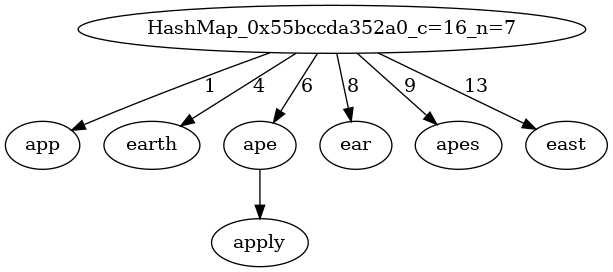
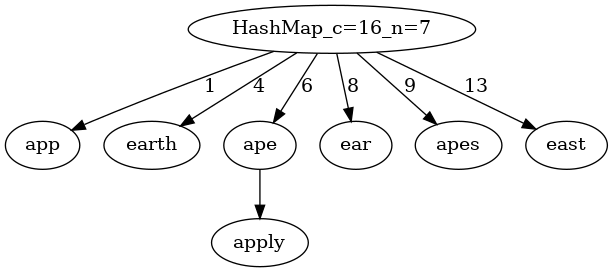
Update Strings/HashMap

Changed region(s): [[0.124, 0.0, 0.9608, 0.2059], [0.5579, 0.1471, 0.8059, 0.2059], [0.6819, 0.4118, 0.7129, 0.4412]]

diff --git a/Strings/HashMap/src/HashMap.c b/Strings/HashMap/src/HashMap.c
@@ -219,9 +219,10 @@ void GenOneImage(struct HashMap* pMap, char *graphName, char *fileName, long seq
 
 /*
     digraph OurHashMap {
-    "HashMap_0x556d03a862a0_c=4_n=2"
-    "HashMap_0x556d03a862a0_c=4_n=2" -> {"ear"} [label="0"]
-    "HashMap_0x556d03a862a0_c=4_n=2" -> {"apply"} [label="2"]
+    "HashMap_c=8_n=3"
+    "HashMap_c=8_n=3" -> {"ear"} [label="0"]
+    "HashMap_c=8_n=3" -> {"apply"} [label="6"]
+    "apply" -> {"ape"}
     }
  */
 void HashMap2Dot(struct HashMap* pMap, char *filePath, char *graphName) {
@@ -236,15 +237,13 @@ void HashMap2Dot(struct HashMap* pMap, char *filePath, char *graphName) {
         fprintf(dotFile, "digraph %s {\n", graphName);
         // Node for the whole HashMap
         fprintf(dotFile, 
-                "\"HashMap_%p_c=%d_n=%d\"\n", 
-                pMap,
+                "\"HashMap_c=%d_n=%d\"\n",
                 pMap->capacity,
                 pMap->n);
         for (int i = 0; i < pMap->capacity; i++) {
             if (pMap->buckets[i]) {
                 fprintf(dotFile, 
-                        "\"HashMap_%p_c=%d_n=%d\" %s {\"%s\"} [label=\"%d\"]\n",
-                        pMap,
+                        "\"HashMap_c=%d_n=%d\" %s {\"%s\"} [label=\"%d\"]\n",
                         pMap->capacity,
                         pMap->n,
                         edgeConnectorStr,

diff --git a/Strings/HashMap/README.md b/Strings/HashMap/README.md
@@ -53,17 +53,27 @@ static unsigned int GetHash(const char *key) {
     }
     return hash;
 }
+
+const char *HashMapGet(struct HashMap *pMap, const char* key) {
+    unsigned int index = GetHash(key) % pMap->capacity;
+
+    struct BucketEntry *current = pMap->buckets[index];
+
+    ...
+}
 ```
 
 ### HashMap
 
 A HashMap is a fundamental data structure in programming that provides a way to store key-value pairs.
 
-Internally, a HashMap uses an array of buckets to store key-value pairs. 
+BTW, key-value pairs can also be stored in a [SortedMap](https://en.cppreference.com/w/cpp/container/map), which uses a self-balancing binary search tree to keep keys in sorted order.
+
+Internally, a HashMap ([unordered](https://en.cppreference.com/w/cpp/container/unordered_map)) uses an array of buckets to store key-value pairs.
 
 Each bucket is a linked list of elements. 
 
-When multiple elements hash to the same bucket (collision), they are stored as nodes in this linked list.
+When multiple elements hash to the same bucket (**collision**), they are stored as nodes in this linked list.
 
 The key’s hash value determines the bucket location for storage.
 
@@ -634,11 +644,13 @@ void GenOneImage(struct HashMap* pMap, char *graphName, char *fileName, long seq
     system(command);
 }
 
+
 /*
     digraph OurHashMap {
-    "HashMap_0x556d03a862a0_c=4_n=2"
-    "HashMap_0x556d03a862a0_c=4_n=2" -> {"ear"} [label="0"]
-    "HashMap_0x556d03a862a0_c=4_n=2" -> {"apply"} [label="2"]
+    "HashMap_c=8_n=3"
+    "HashMap_c=8_n=3" -> {"ear"} [label="0"]
+    "HashMap_c=8_n=3" -> {"apply"} [label="6"]
+    "apply" -> {"ape"}
     }
  */
 void HashMap2Dot(struct HashMap* pMap, char *filePath, char *graphName) {
@@ -653,15 +665,13 @@ void HashMap2Dot(struct HashMap* pMap, char *filePath, char *graphName) {
         fprintf(dotFile, "digraph %s {\n", graphName);
         // Node for the whole HashMap
         fprintf(dotFile, 
-                "\"HashMap_%p_c=%d_n=%d\"\n", 
-                pMap,
+                "\"HashMap_c=%d_n=%d\"\n",
                 pMap->capacity,
                 pMap->n);
         for (int i = 0; i < pMap->capacity; i++) {
             if (pMap->buckets[i]) {
                 fprintf(dotFile, 
-                        "\"HashMap_%p_c=%d_n=%d\" %s {\"%s\"} [label=\"%d\"]\n",
-                        pMap,
+                        "\"HashMap_c=%d_n=%d\" %s {\"%s\"} [label=\"%d\"]\n",
                         pMap->capacity,
                         pMap->n,
                         edgeConnectorStr,
